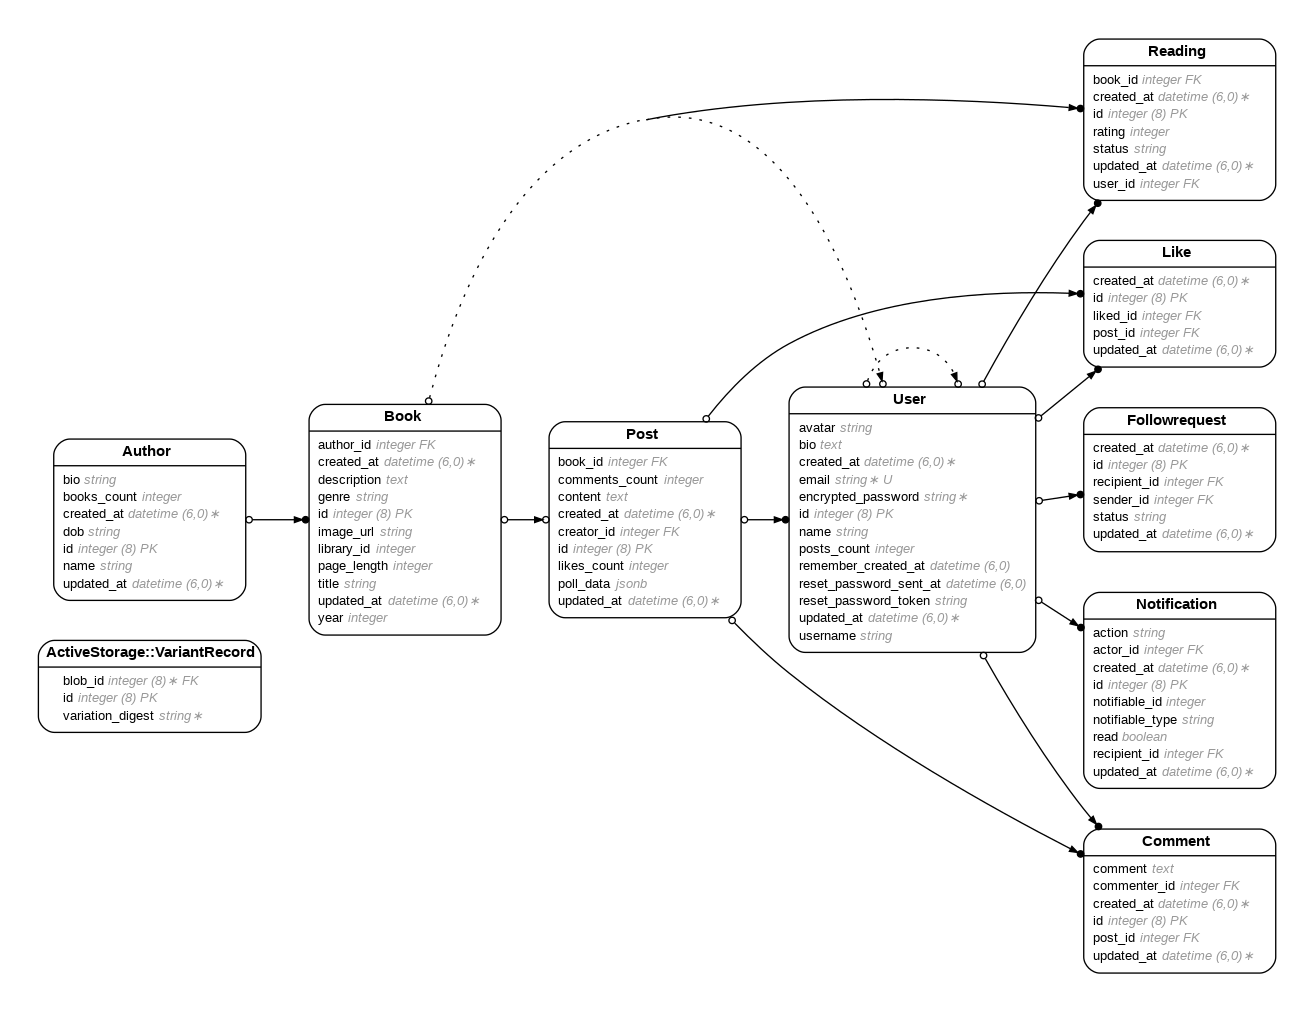
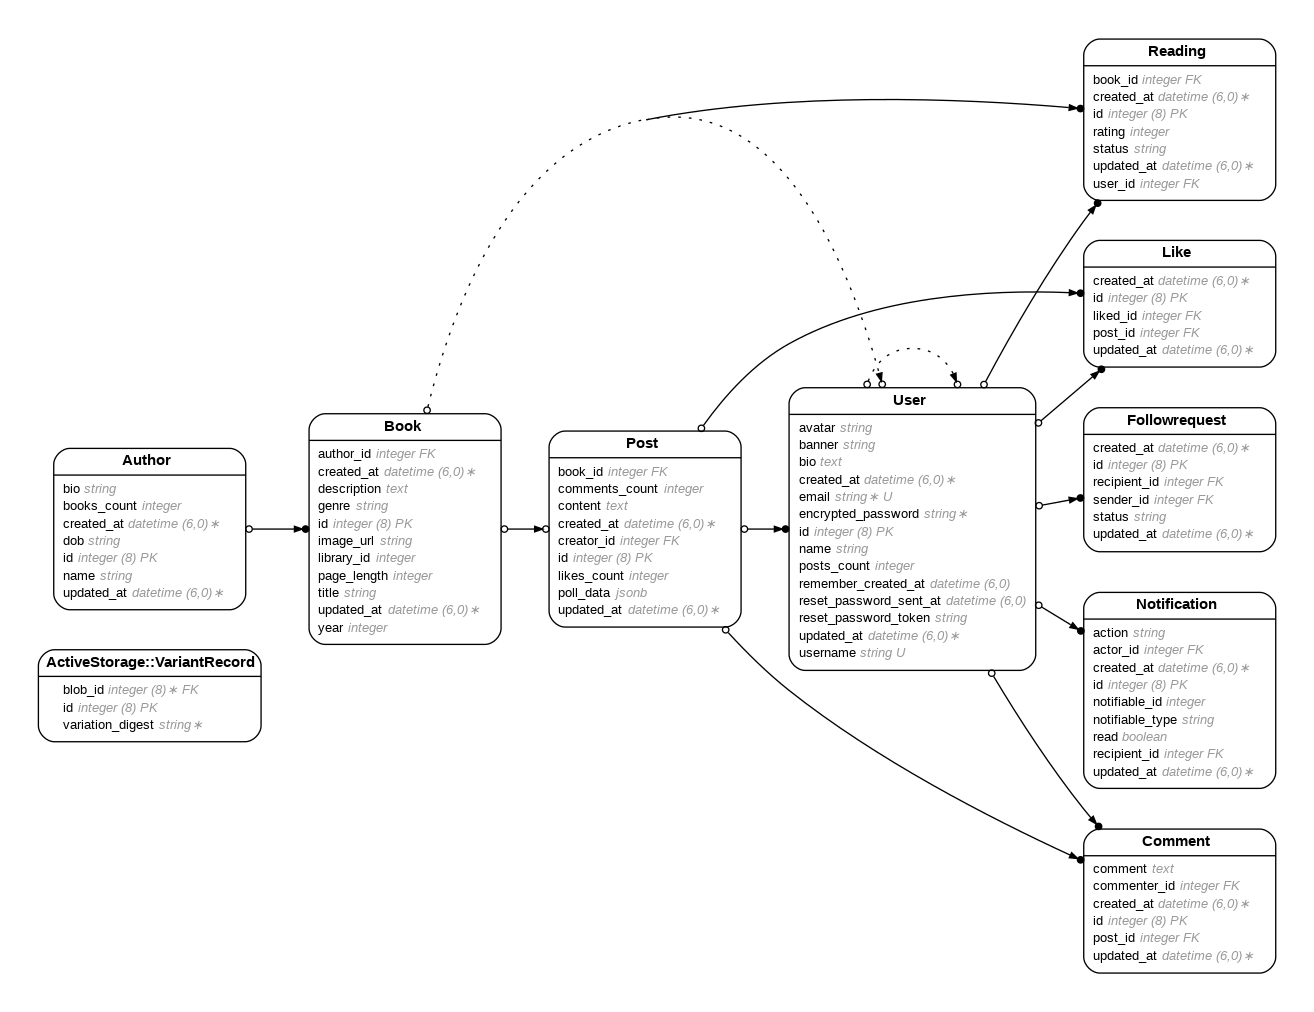
Migrated new tables

diff --git a/db/schema.rb b/db/schema.rb
@@ -10,7 +10,7 @@
 #
 # It's strongly recommended that you check this file into your version control system.
 
-ActiveRecord::Schema[7.1].define(version: 2025_07_01_010000) do
+ActiveRecord::Schema[7.1].define(version: 2025_07_02_000000) do
   # These are extensions that must be enabled in order to support this database
   enable_extension "plpgsql"
 
@@ -131,6 +131,7 @@ ActiveRecord::Schema[7.1].define(version: 2025_07_01_010000) do
     t.integer "posts_count"
     t.datetime "created_at", null: false
     t.datetime "updated_at", null: false
+    t.string "banner"
     t.index ["email"], name: "index_users_on_email", unique: true
     t.index ["reset_password_token"], name: "index_users_on_reset_password_token", unique: true
   end

diff --git a/app/models/user.rb b/app/models/user.rb
@@ -4,6 +4,7 @@
 #
 #  id                     :bigint           not null, primary key
 #  avatar                 :string
+#  banner                 :string
 #  bio                    :text
 #  email                  :string           default(""), not null
 #  encrypted_password     :string           default(""), not null
